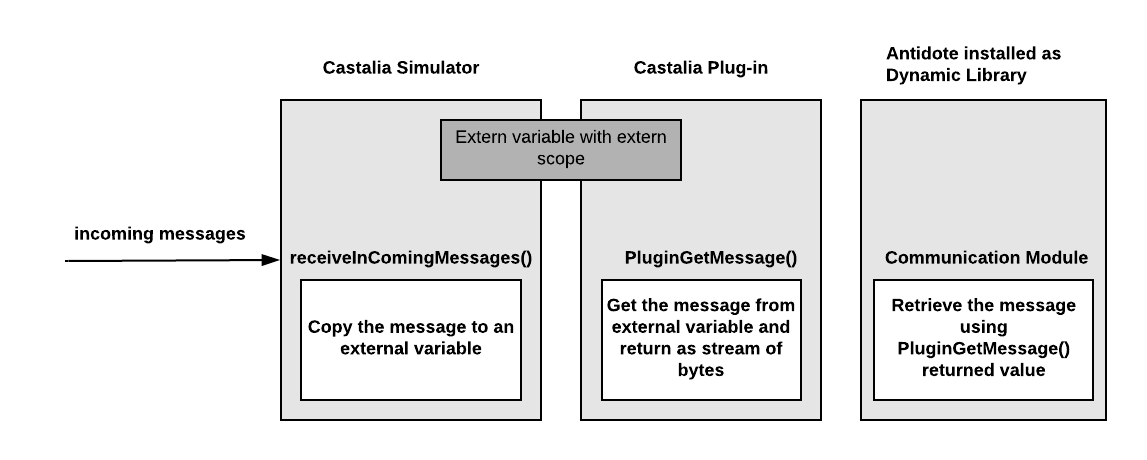
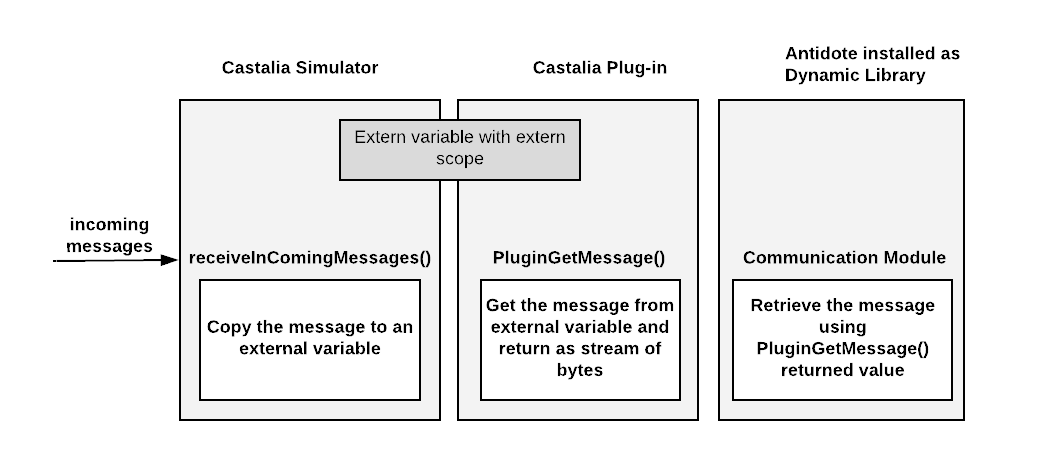
Finalização das seções A e B

diff --git a/sections/systemArchitecture.tex b/sections/systemArchitecture.tex
@@ -6,21 +6,30 @@ Antidote has a plug-in based architecture. So, it was developed a Castalia plugi
 
 Antidote itself is portable and use ANSI C language to create a standard and clean library. But providing communication between Antidote and others systems, like Castalia, is plug-in dependent. So the dependence of Antidote is just in communication plug-ins.
 
-The proposed plug-in allows Castalia and Antidote talks with each other through \textit{external variables}. Inside Castalia Simulator we can call any function from Antidote Library this way we can retrieve any information from Antidote library. The problem is to transmit the data from Castalia to Antidote Library. To solve this, we first use external variables to make the data exchange between Castalia and Castalia plug-in module. Then, to obtain the data from Castalia plug-in module, Antidote uses pointers to Plug-in Module functions. That's why we need a plug-in to mediate the communication. 
+The proposed plug-in allows Castalia and Antidote talks with each other through \textit{external variables}. Inside Castalia Simulator we can call any function from Antidote Library therefore we can retrieve any information from Antidote library. The problem is to transmit the data from Castalia to Antidote Library. To solve this, we first use external variables to make the data exchange between Castalia and Castalia plug-in module. Then, to obtain the data from Castalia plug-in module, Antidote uses pointers to Plug-in Module functions. That's why we need a plug-in to mediate the communication. 
 
-There are a set of callback functions in Castalia plug-in module that is passed to Antidote during the initialization process of agents. These callback functions are passed to communication module as pointers to functions.
-This way whenever the communication module needs to retrieve or send a message it just trigger the correspondent callback function. The task of these callback functions is to receive and send messages as also initialize and finalize a agent network.
+There are a set of callback functions in Castalia plug-in module that is passed to Antidote during the initialization process of agents. These callback functions are passed to communication module as pointers to functions. This way whenever the communication module needs to retrieve or send a message it just trigger the correspondent callback function. The task of these callback functions is to receive and send messages as also initialize and finalize a agent network.
+
+The Fig.~\ref{fig:CastaliaPlugin} is a representation of the three modules. The arriving messages is copied to an \textit{external variable} in Castalia Simulator Module - the external variable is visible to the both modules Castalia Simulator and Castalia Plugin. So the \textit{pluginGetMessage()} function copy the content of the external variable to a local variable and return this local variable. Since the communication module own a pointer to the \textit{pluginGetMessage()} function, it finally can retrieve the message.
+
+\begin{figure}[htbp]
+\centerline{\includegraphics[scale=0.28]{figures/castaliaPlugin.png}}
+\caption{How Antidote Library gets the messages from Castalia Simulator.}
+\label{fig:CastaliaPlugin}
+\end{figure}
 
 \subsection{Changes in communication module}
 
 The Communication module is one of the most important modules in the Antidote. The start, the finalization, transmissions, machine state phases of all nodes are controlled by this module. In a real scenario, each device has your own communication module, running your own copy of the code. So, in one-machine simulation it is a bit different. Only one communication module has to handle with all nodes, since the Antidote Library is installed in the operating system as a dynamic library.
 
-To ensure the proper functioning of communication module, the \textit{node id} is required in each method call, this way we know what node we are working with and apply the action just to that node, never affecting another node. For example, if a node transits from unassociated state to associating machine state, without the proposed modification, this action would affect all nodes even those who should not change their machine state.
+To ensure the proper operation of communication module, the \textit{node id} is required in each method call, this way we know what node we are working with and apply the action just to that node, never affecting another node. For example, if a node transits from unassociated state to associating machine state, without the proposed modification, this action would affect all nodes even those who should not change their machine state.
 
-The Fig.~\ref{fig:communicationModuleCastalia} illustrates the system modification.
+The Fig.~\ref{fig:communicationModuleCastalia} illustrates the system modifications. In every function call from Communication module we insert the \textit{node id} new parameter. This way the communication module always knows the node in question. The arrows in Fig.~\ref{fig:communicationModuleCastalia} represents functions calls.
 
 \begin{figure}[htbp]
 \centerline{\includegraphics[scale=0.7]{figures/communicationModuleCastalia.png}}
-\caption{Communication module handling several nodes}
+\caption{Communication module handling several nodes. Each arrow represents a function being called from Communication Module.}
 \label{fig:communicationModuleCastalia}
 \end{figure}
+
+\subsection{Castalia Application}
